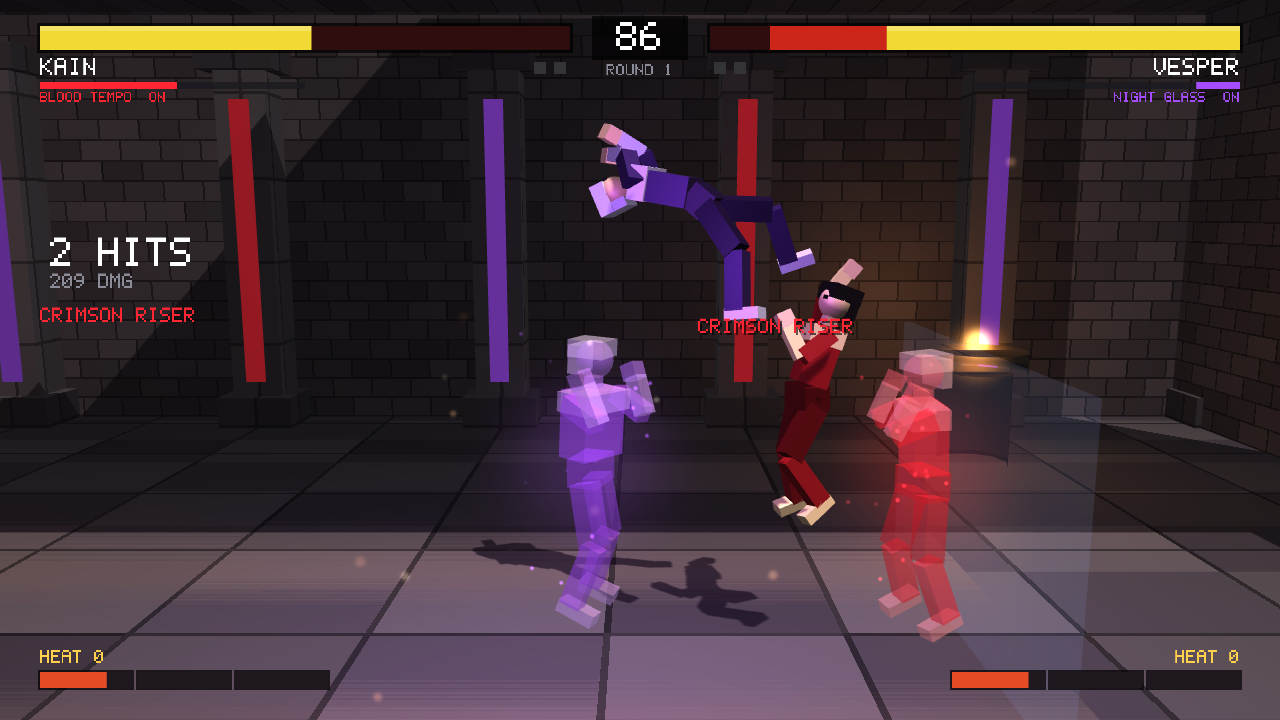
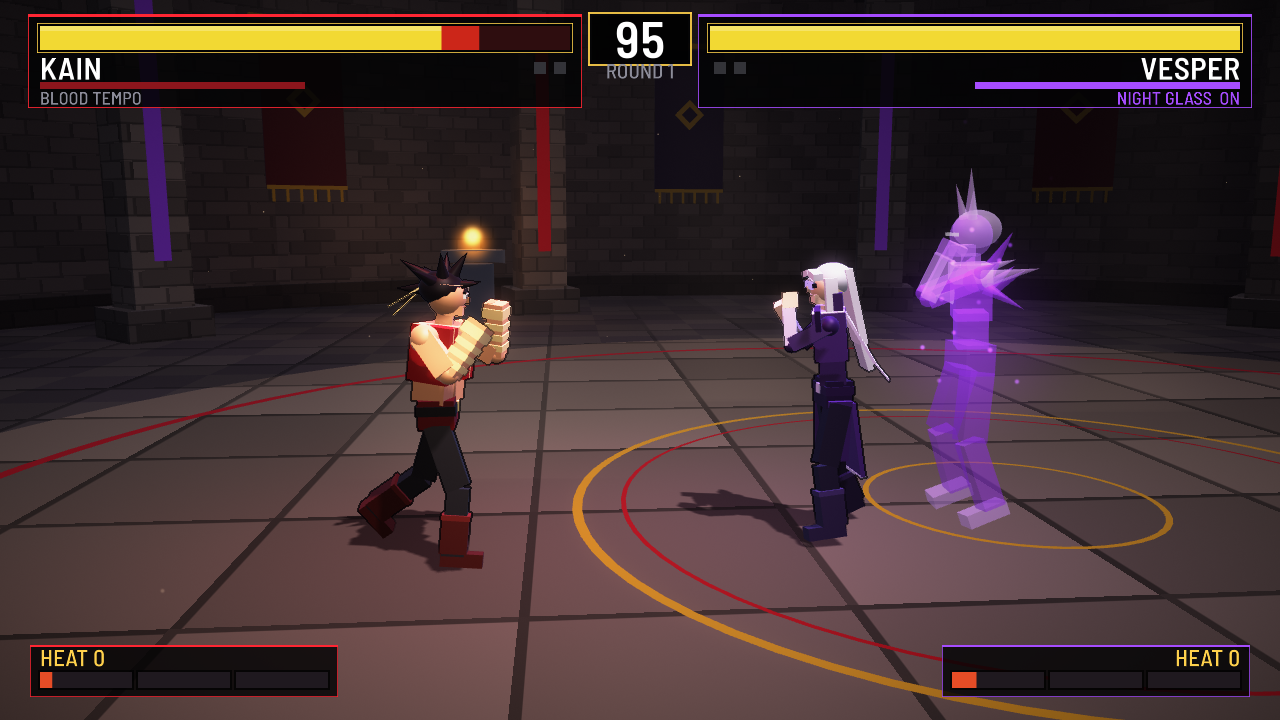
readme update

diff --git a/README.md b/README.md
@@ -9,7 +9,15 @@ When you find them, the fight is a 3D arena brawl with the mechanics of
 *JoJo's Bizarre Adventure: All-Star Battle*: Stands, Heart Heat Gauge, HHA / GHA, Flash Cancel,
 Stylish Evade, Easy Beat chains, Stand Break and Rush Mode clashes.
 
-![Fight](docs/fight.png)
+## Screenshots
+
+| Title screen | Character select |
+|---|---|
+| <img src="docs/title.png" alt="The crimson title menu and fighter lineup" width="480"> | <img src="docs/character-select.png" alt="Character select with Mira's dossier and signature moves" width="480"> |
+
+| Arena select | Fight |
+|---|---|
+| <img src="docs/stage-select.png" alt="Arena select previewing Moonlit Shrine" width="480"> | <img src="docs/fight.png" alt="Kain and Vesper facing off in the Crimson Colosseum" width="480"> |
 
 ## Building
 
